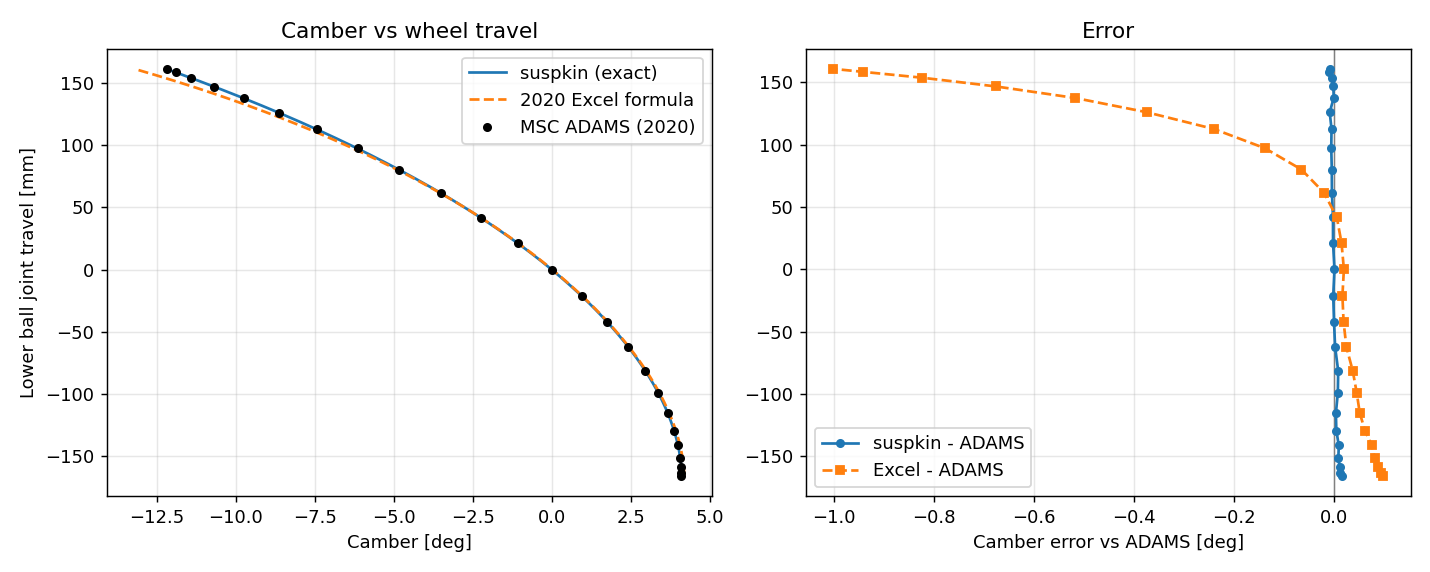
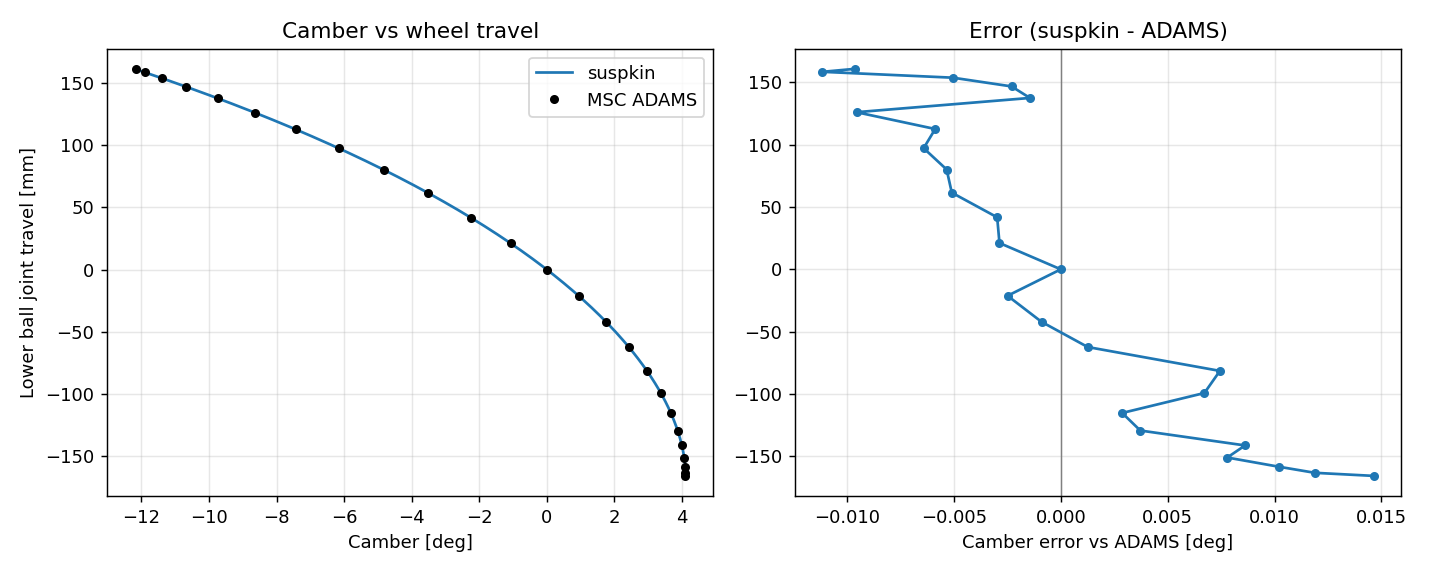
README: describe what the tool does; validation figure shows suspkin vs ADAMS

diff --git a/validation/validate_adams.py b/validation/validate_adams.py
@@ -1,11 +1,9 @@
-"""Re-run the 2020 ADAMS validation case with the exact solver.
+"""Validate the suspkin solver against MSC ADAMS.
 
 Usage:  python validation/validate_adams.py
 
-Compares, against the MSC ADAMS camber curve reported in 2020:
-  * the camber values the 2020 Excel tool reported (from the report table),
-  * this repository's re-implementation of the Excel approximation,
-  * the exact 3-D loop-closure solver in ``suspkin``.
+Compares the camber curve from ``suspkin`` with the MSC ADAMS results for the
+same double wishbone model.
 
 Writes ``validation/adams_comparison.csv`` and ``docs/img/validation_adams.png``.
 """
@@ -46,15 +44,13 @@ def plot(table: pd.DataFrame, path: Path) -> None:
     fig, (ax, ax2) = plt.subplots(1, 2, figsize=(11, 4.4))
     sweep = np.linspace(-165, 161, 200)
     model = load_model(CONFIG)
-    excel = ExcelDoubleWishbone(**load_config(CONFIG)["parameters"])
     ax.plot(
         [all_metrics(model.solve(x))["camber_change_deg"] for x in sweep],
         sweep,
         color="tab:blue",
-        label="suspkin (exact)",
+        label="suspkin",
     )
-    ax.plot(excel.excel_camber(sweep), sweep, "--", color="tab:orange", label="2020 Excel formula")
-    ax.plot(table["adams_camber_deg"], table["adams_displacement_mm"], "ko", ms=4, label="MSC ADAMS (2020)")
+    ax.plot(table["adams_camber_deg"], table["adams_displacement_mm"], "ko", ms=4, label="MSC ADAMS")
     ax.set_xlabel("Camber [deg]")
     ax.set_ylabel("Lower ball joint travel [mm]")
     ax.set_title("Camber vs wheel travel")
@@ -67,20 +63,10 @@ def plot(table: pd.DataFrame, path: Path) -> None:
         "o-",
         color="tab:blue",
         ms=4,
-        label="suspkin - ADAMS",
-    )
-    ax2.plot(
-        table["excel_formula_error_deg"],
-        table["adams_displacement_mm"],
-        "s--",
-        color="tab:orange",
-        ms=4,
-        label="Excel - ADAMS",
     )
     ax2.set_xlabel("Camber error vs ADAMS [deg]")
-    ax2.set_title("Error")
+    ax2.set_title("Error (suspkin - ADAMS)")
     ax2.grid(alpha=0.3)
-    ax2.legend()
     fig.tight_layout()
     path.parent.mkdir(parents=True, exist_ok=True)
     fig.savefig(path, dpi=130)
@@ -93,4 +79,3 @@ if __name__ == "__main__":
     print(t.round(3).to_string(index=False))
     print()
     print(f"max |error| suspkin vs ADAMS: {t['suspkin_error_deg'].abs().max():.3f} deg")
-    print(f"max |error| Excel   vs ADAMS: {t['excel_formula_error_deg'].abs().max():.3f} deg")

diff --git a/README.md b/README.md
@@ -7,32 +7,15 @@ strut** suspensions: camber, toe / bump steer, caster, kingpin inclination,
 scrub radius, mechanical trail, half-track change, wheel recession and the
 front-view roll centre. It covers bump/rebound, steering and body-roll sweeps.
 
-It started as my 2020 BEng individual project at Coventry University,
+It comes from my 2020 BEng individual project at Coventry University,
 *"Design of a tool for kinematics development of the double wishbone and
-McPherson suspension systems"*. The original tool was an Excel workbook built
-on chained trigonometric approximations, and I validated it against MSC ADAMS.
-This repository is a ground-up rewrite as a tested Python package with an
-exact constraint solver. The original workbook is kept in [`legacy/`](legacy/).
+McPherson suspension systems"*. The original Excel tool is kept in
+[`legacy/`](legacy/).
 
 ![Validation against ADAMS](docs/img/validation_adams.png)
 
-*The 2020 ADAMS validation case, re-run. The exact solver agrees with ADAMS to
-within **0.015°** over ±160 mm of travel. The original spreadsheet formula
-drifts to **1.0°** at full bump because it assumed the knuckle stays vertical
-while placing the upper ball joint.*
-
-## What changed since the 2020 Excel tool
-
-| | 2020 Excel tool | `suspkin` |
-|---|---|---|
-| Model | 2-D front view + separate side/top views | Full 3-D hardpoints |
-| Method | Chained trig approximations per cell | Exact loop closure: rigid knuckle, Gauss-Newton on 6 DOF |
-| Accuracy vs ADAMS | up to 1.0° camber error | < 0.015° |
-| Steering / toe | Wheel rotated directly by the toe/steer angle | Real tie rod and rack, so bump steer is an output |
-| McPherson | Work in progress | Strut modelled as a sliding line constraint through the top mount |
-| Outputs | Camber, HTC, WR plots | + toe, caster, KPI, scrub, trail, roll-centre height and migration, strut length |
-| Inputs | Parametric (widths, lengths) | Hardpoints in JSON, plus the old parametric inputs via `ExcelDoubleWishbone` |
-| Testing | Manual | 80+ pytest checks, CI, ADAMS regression |
+*Camber against wheel travel, compared with MSC ADAMS. The solver agrees
+with ADAMS to within **0.015°** over ±160 mm of travel.*
 
 ## Install
 
@@ -161,20 +144,11 @@ contact patch through that instant centre crosses the vehicle centreline.
 
 ## Validation
 
-`python validation/validate_adams.py` re-runs the 2020 ADAMS case
-(`examples/adams_validation_2020.json`, the report's Fig. 35 inputs). It
-compares three curves against the ADAMS camber data in
-`validation/adams_2020_table1.csv`:
-
-* the exact solver: max error **0.015°**, about the rounding of the published
-  ADAMS values;
-* this repo's re-implementation of the spreadsheet formula, which reproduces
-  the Excel values the 2020 report published: max error **1.0°**;
-* an independent closed-form planar 4-bar solution, checked in `tests/` to
-  1e-8 mm.
-
-The static values also match the report: track **1398.0 mm**, roll-centre
-height **141.64 mm**, upper/lower arm angles **6.93° / −3.53°**.
+`python validation/validate_adams.py` runs the ADAMS validation case
+(`examples/adams_validation_2020.json`) and compares camber against the ADAMS
+results in `validation/adams_2020_table1.csv`. The maximum error is
+**0.015°**, about the rounding of the ADAMS values. The test suite also checks
+the solver against a closed-form planar four-bar solution to 1e-8 mm.
 
 ## Limitations
 
@@ -193,8 +167,8 @@ height **141.64 mm**, upper/lower arm angles **6.93° / −3.53°**.
   validated against MSC ADAMS.
   [Report (PDF)](docs/report/2020_BEng_report_suspension_kinematics.pdf) ·
   [Presentation (PDF)](docs/report/2020_BEng_presentation_suspension_kinematics.pdf)
-* **2026**: rewritten as this Python package. It adds the exact 3-D solver,
-  the MacPherson strut, tie-rod steering, more metrics, tests and CI.
+* **2026**: Python package with a 3-D solver, interactive explorer, tests
+  and CI.
 
 ## License
 
